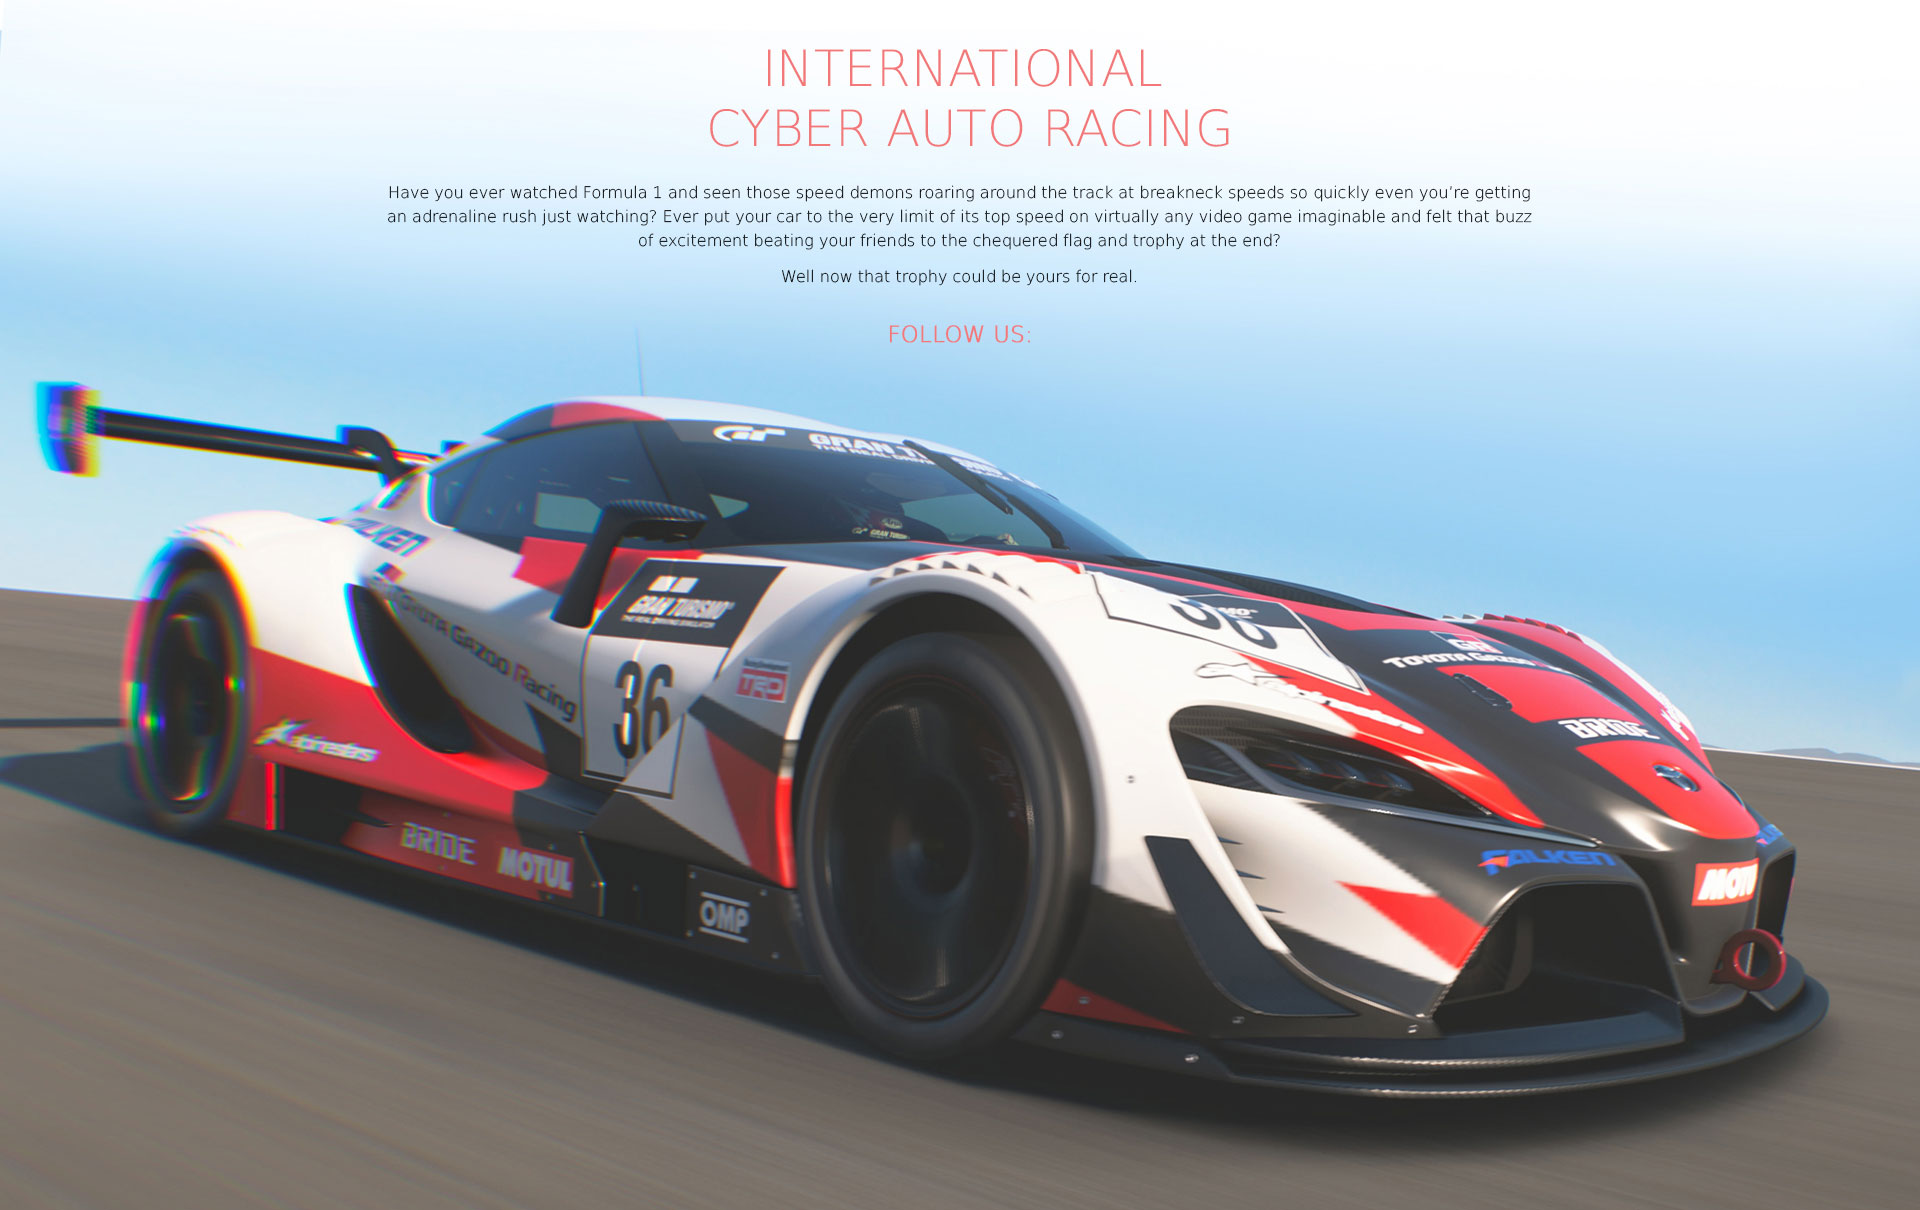
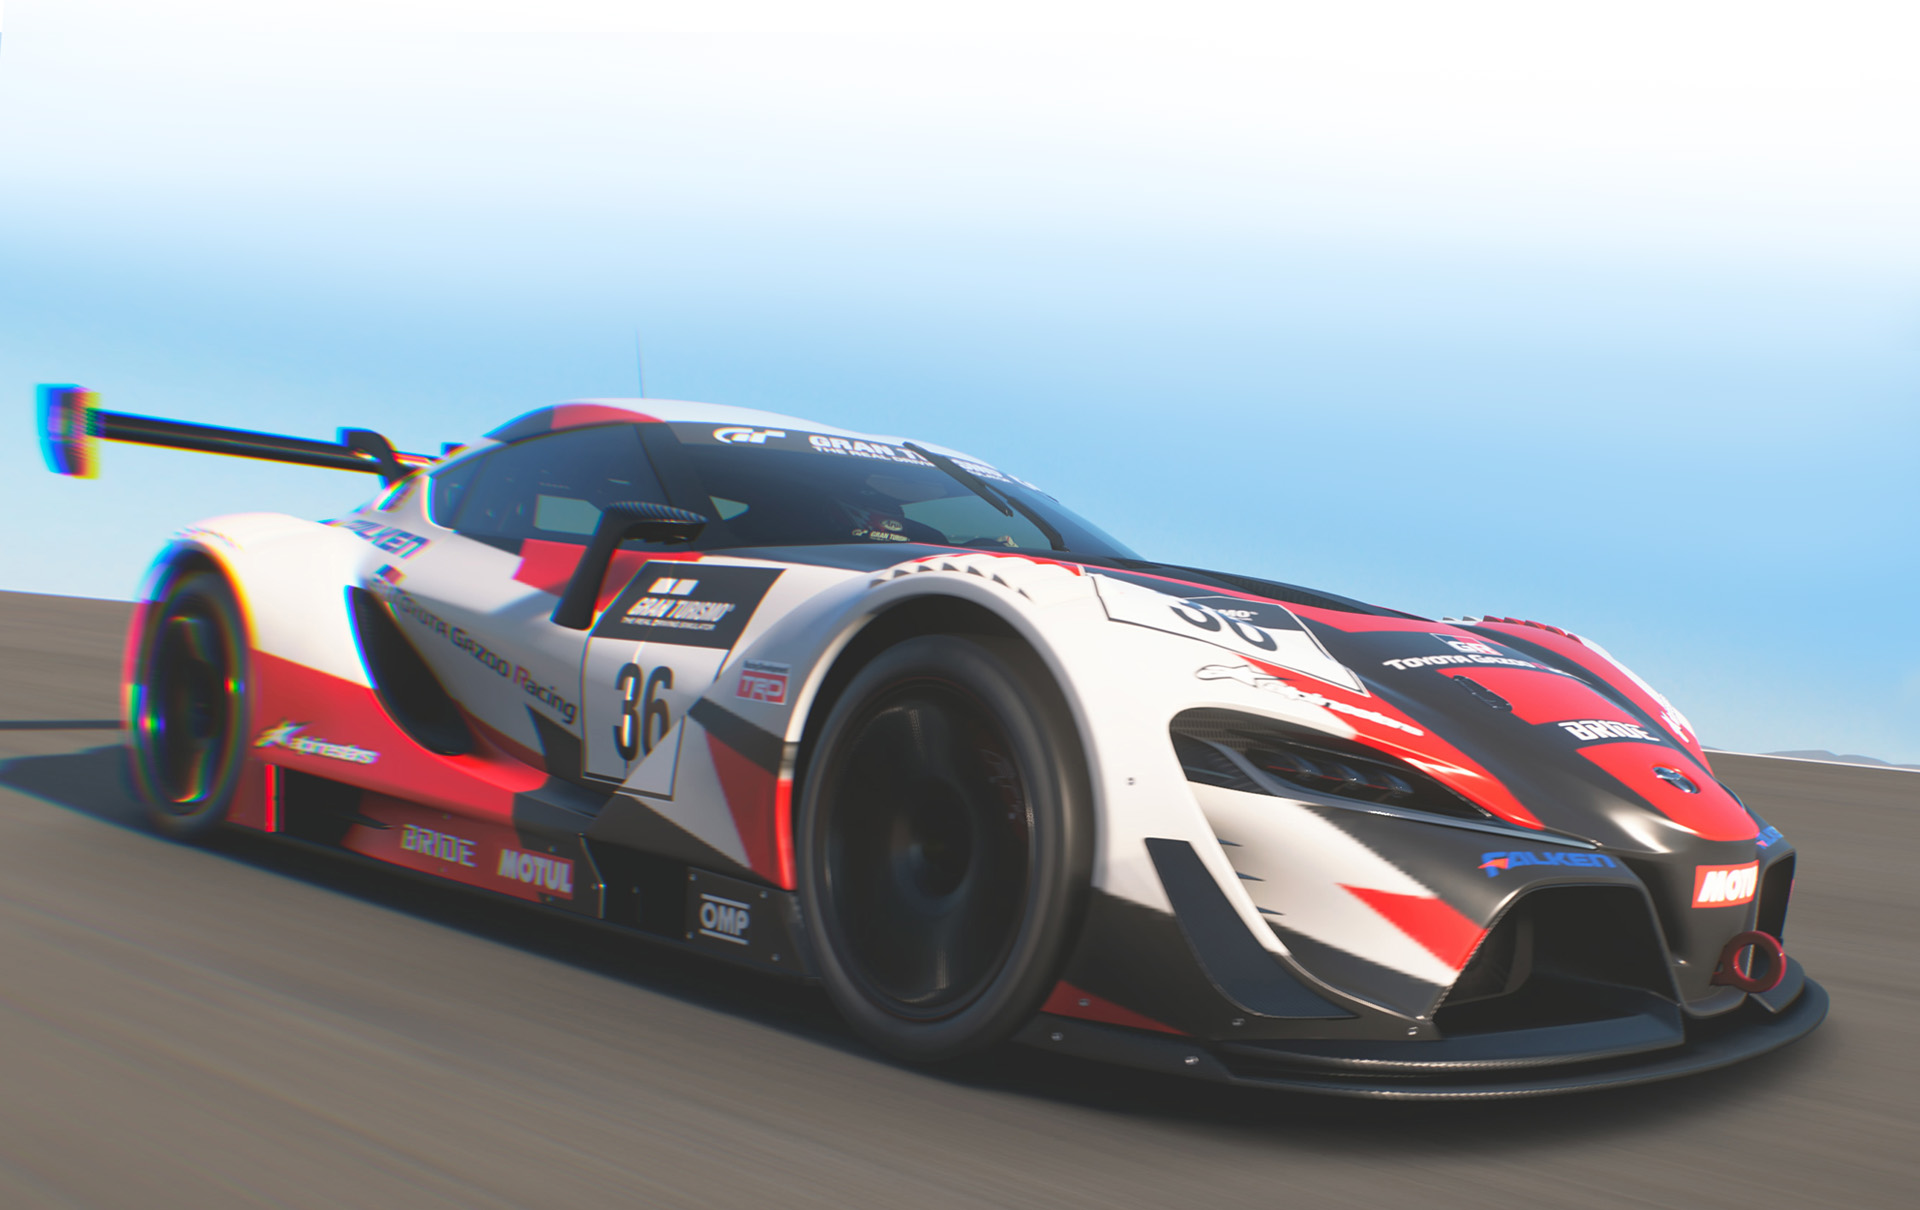
add style to home state - follow-us

diff --git a/public/Services/translateService.js b/public/Services/translateService.js
@@ -30,8 +30,9 @@
                 signOut: "выйти"
             },
             home: {
-                backgroundMain: "content/images/backgroundMainRU.jpg",
-                backgroundMain2: "content/images/backgroundMain2RU.jpg",
+                textFirst: "Представляем InCAR, новую гоночную платформу, которая изменит автомобильный киберспорт. Наш ресурс объединяет все самые популярный автомобильные симуляторы. Участвуйте в онлайн гонке со своими друзьями и почувствуйте дрожь в борьбе за реальные призы в одном из наших многочисленных турниров.",
+                textSecound:"C нами автомобильные симуляторы выходят на новый уровень увлекательности!",
+                follow: "МЫ В СОЦ.СЕТЯХ:",
                 lastEvents: "ближайшие ивенты",
                 lastNews: "новости"
             },
@@ -83,8 +84,9 @@
                 signOut: "Sign Out"
             },
             home: {
-                backgroundMain: "content/images/backgroundMainEN.jpg",
-                backgroundMain2: "content/images/backgroundMain2EN.jpg",
+                textFirst: "Have you ever watched Formula 1 and seen those speed demons roaring around the track at breakneck speeds so quickly even you’re getting an adrenaline rush just watching? Ever put your car to the very limit of its top speed on virtually any video game imaginable and felt that buzz of excitement beating your friends to the chequered flag and trophy at the end?",
+                textSecound:"Well now that trophy could be yours for real.",
+                follow: "FOLLOW US:",
                 lastEvents: "latest events",
                 lastNews: "news"
             },

diff --git a/public/content/css/style.css b/public/content/css/style.css
@@ -199,7 +199,7 @@ a {
     margin: 15px 0;
     color: black; }
     .brand-form input:not([type="checkbox"])::-webkit-input-placeholder {
-      color: black; }
+      color: #777777; }
     .brand-form input:not([type="checkbox"])::-moz-placeholder {
       color: black; }
     .brand-form input:not([type="checkbox"])[type="submit"] {
@@ -1233,13 +1233,70 @@ header .header-navigation ul li.active a:before {
   padding: 0;
 }
 
-
-
 @media screen and (max-width: 1222px)  {
   #header-nav-lang {
     display: none;
   }
-
 }
 
+#home-background {
+  position	: relative;
+}
 
+.home-follow {
+  position: absolute;
+  left: 0;
+  top: 5px;
+}
+
+.home-follow-text {
+  padding-bottom: 20px;
+}
+
+.home-follow-text > h2 {
+  text-align: center;
+  font-family: DejaVu, sans-serif !important;
+  font-style: normal;
+  font-weight: 100 !important;
+  line-height: normal;
+  font-size: 44px !important;
+  letter-spacing: 0.03em;
+  text-transform: uppercase;
+  color: #F27979;
+}
+.home-follow-us {
+  font-family: DejaVu, sans-serif !important;
+  font-style: normal;
+  font-weight: 100 !important;
+  line-height: normal;
+  font-size: 24px !important;
+  letter-spacing: 0.03em;
+  color: #F27979;
+}
+
+.social-img {
+  margin: 0 5px 0 5px;
+}
+
+.social-img:hover {
+  opacity: 0.8;
+}
+
+@media screen and (max-width: 1159px)  {
+  .home-follow-text{
+    background-color: rgba(255,255,255, 0.6);
+  }
+}
+
+@media screen and (max-width: 600px)  {
+  .home-follow-text > h2 {
+    font-size: 14px !important;
+  }
+  .home-follow-us {
+    font-size: 12px !important;
+    font-weight: 250 !important;
+  }
+  .home-follow-text > p{
+    font-size: 10px;
+  }
+}

diff --git a/public/home/home.html b/public/home/home.html
@@ -28,7 +28,29 @@
 						</div>
 					</div>
 
-					<div class="container-fluid" style="padding:0;"><img data-ng-src="{{vm.home.backgroundMain}}" style="width:100%;"></div>
+					<div class="container-fluid" style="padding:0;" id="home-background">
+						<img src="content/images/backgroundMainEN.jpg" style="width:100%;">
+                        <div class="text-center home-follow" tyle="max-width: 50%">
+							<div class="row">
+								<div class="col-xs-1 col-sm-1 col-md-2"></div>
+								<div class="col-xs-10 col-sm-10 col-md-8 home-follow-text">
+									<h2>INTERNATIONAL <br> CYBER AUTO RACING</h2>
+									<p data-ng-bind="vm.home.textFirst"></p>
+									<p data-ng-bind="vm.home.textSecound"></p>
+									<h4 class="home-follow-us" data-ng-bind="vm.home.follow"></h4>
+									<a class="social-img" href="https://www.instagram.com/incar.online/" target="_blank"><img src="/content/images/Instagram.png" alt="instagram"></a>
+									<a class="social-img" href="https://twitter.com/InCAR_online/" target="_blank"><img src="/content/images/Twiter.png" alt="twiter"></a>
+									<a class="social-img" href="https://www.facebook.com/InCARonline/" target="_blank"><img src="/content/images/Facebook.png" alt="facebook"></a>
+								</div>
+
+								<div class="col-xs-1 col-sm-1 col-md-2"></div>
+
+							</div>
+
+
+                        </div>
+                        
+					</div>
 
 					<!--<div class="container-fluid">-->
 						<!--<div class="row row-cust-padding">-->
